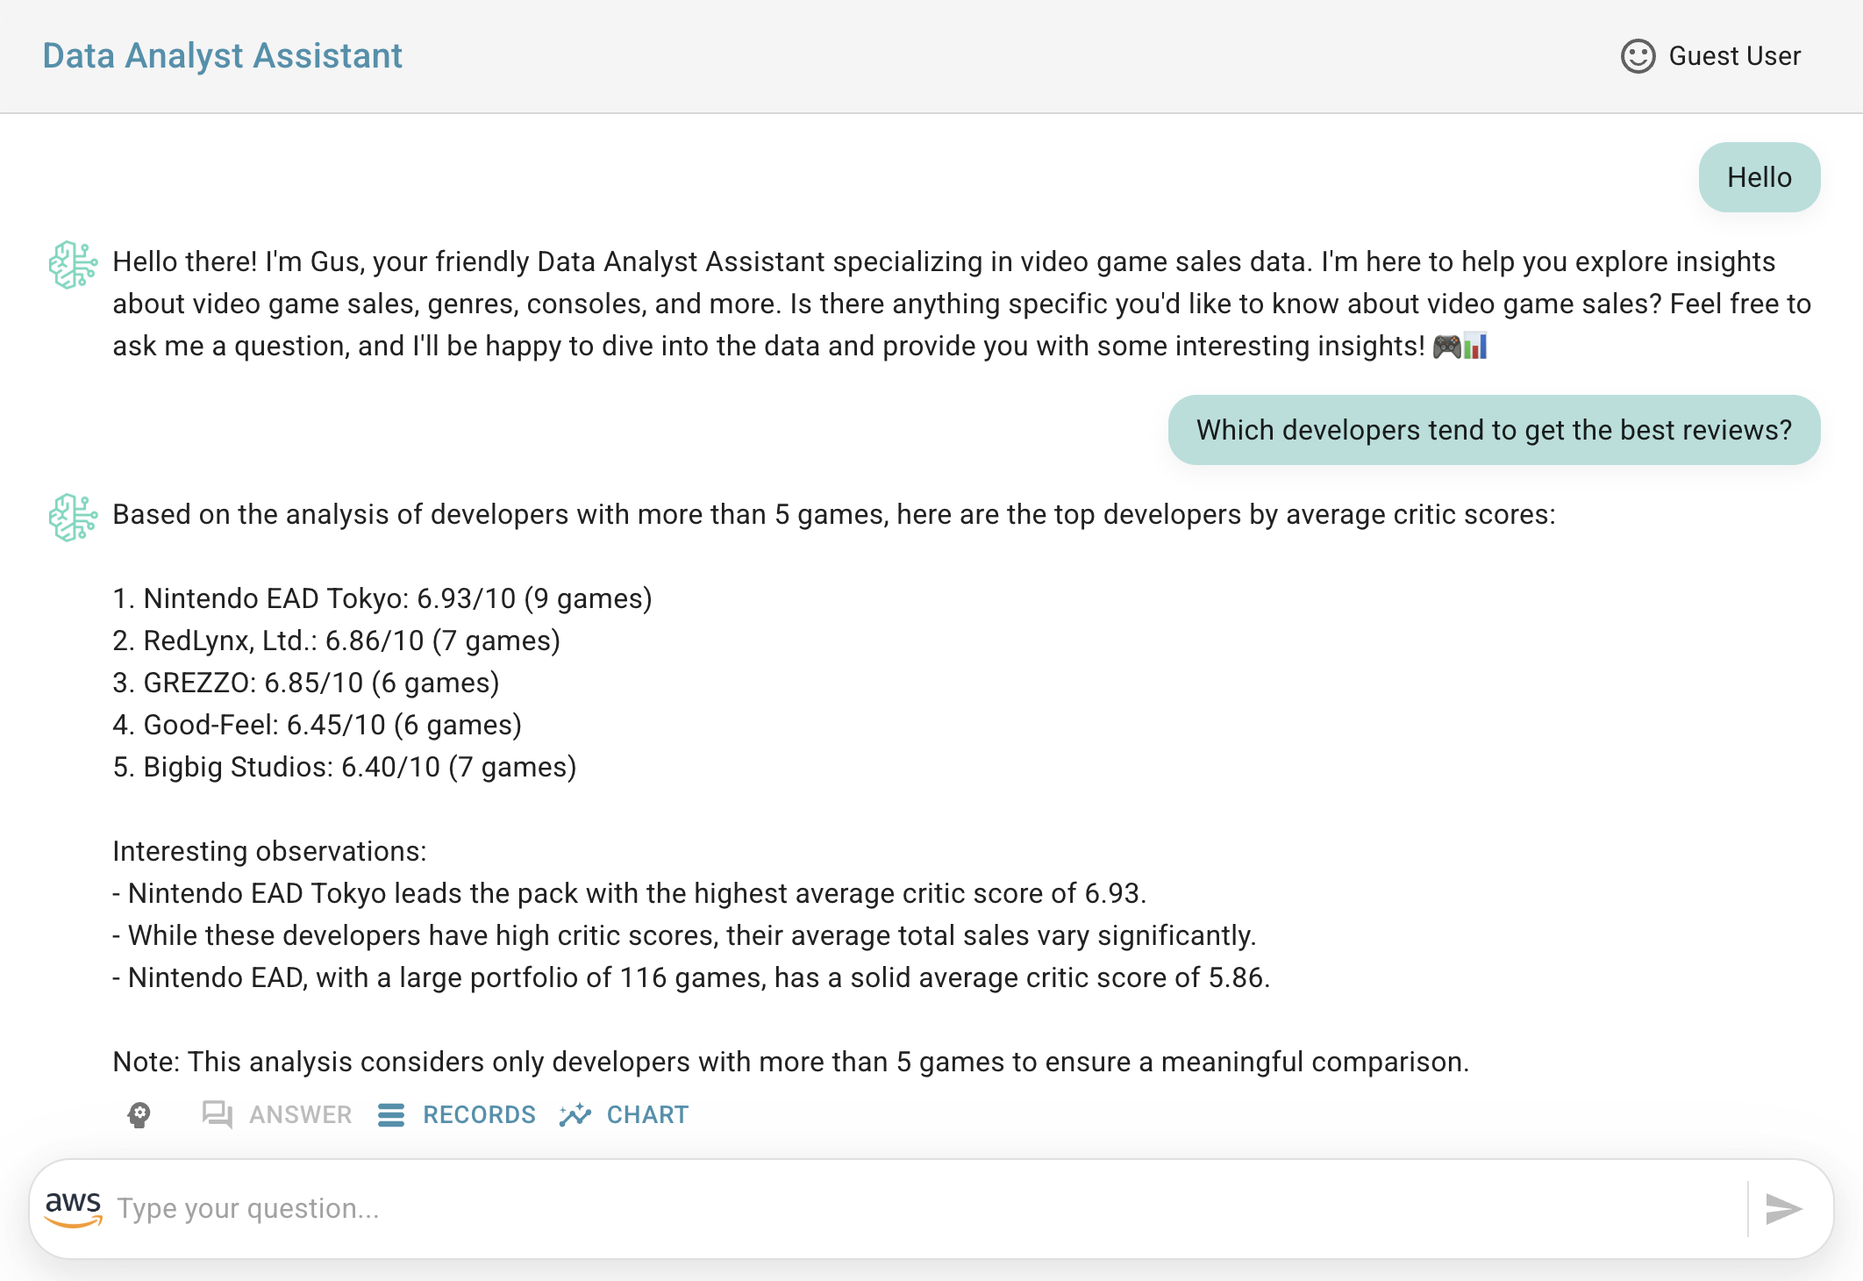
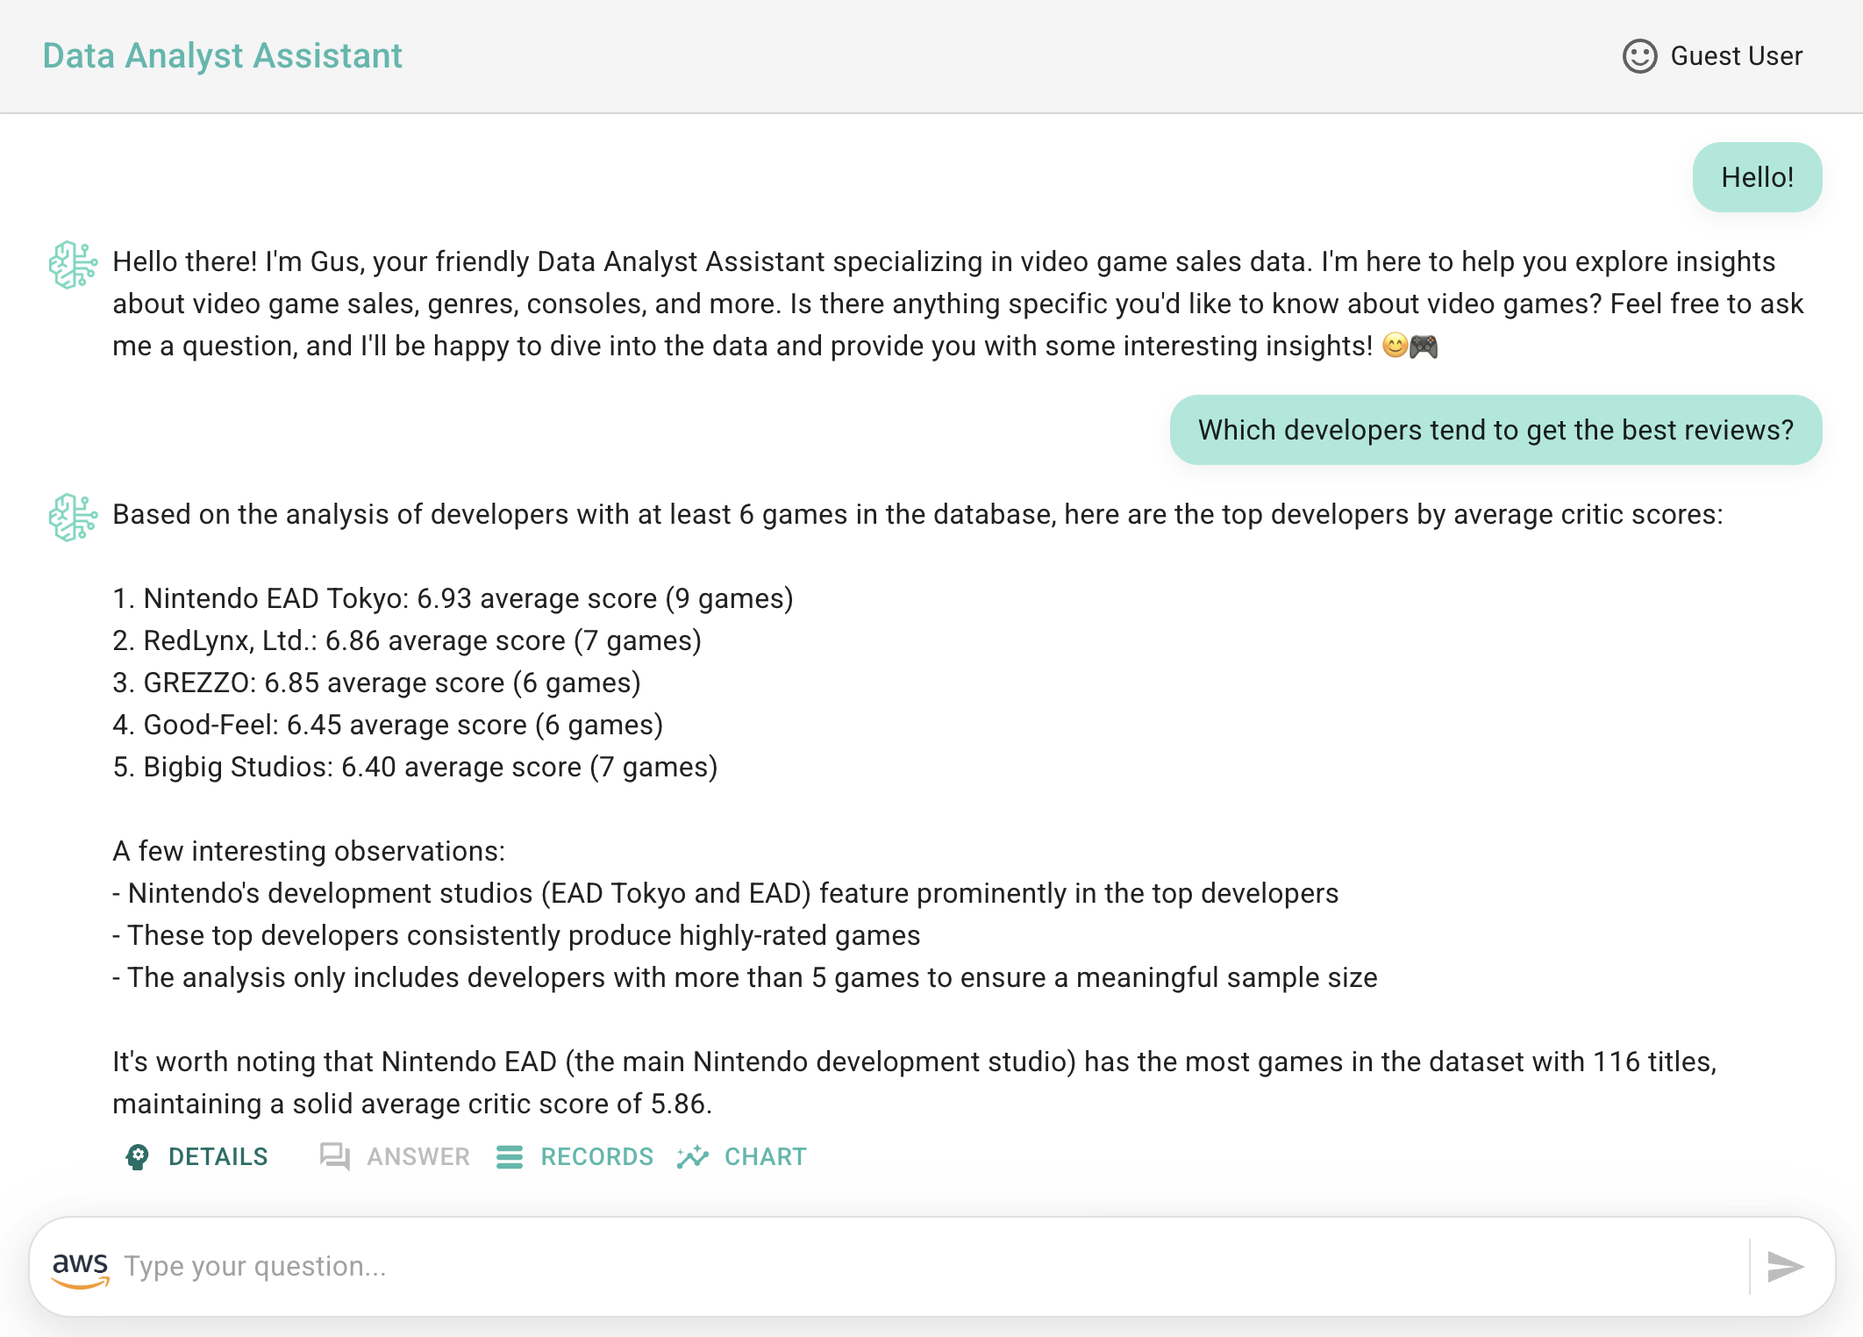
DAS - Answer details and readme updates

diff --git a/examples/agents_ux/video_games_sales_assistant_with_amazon_bedrock_agents/amplify-video-games-sales-assistant-sample/src/components/Chat.js b/examples/agents_ux/video_games_sales_assistant_with_amazon_bedrock_agents/amplify-video-games-sales-assistant-sample/src/components/Chat.js
@@ -14,11 +14,10 @@ import Grow from '@mui/material/Grow';
 import Stack from '@mui/material/Stack';
 import Fade from '@mui/material/Fade';
 import { v4 as uuidv4 } from 'uuid';
-import { BedrockAgentRuntimeClient, InvokeAgentCommand, BedrockAgentRuntimeClientConfigType } from "@aws-sdk/client-bedrock-agent-runtime";
+import { BedrockAgentRuntimeClient, InvokeAgentCommand } from "@aws-sdk/client-bedrock-agent-runtime";
 import { BedrockRuntimeClient, InvokeModelCommand } from "@aws-sdk/client-bedrock-runtime";
 import { DynamoDBClient } from "@aws-sdk/client-dynamodb";
 import { DynamoDBDocumentClient, QueryCommand } from "@aws-sdk/lib-dynamodb";
-import { fromCognitoIdentityPool } from "@aws-sdk/credential-providers";
 
 import InsightsOutlinedIcon from '@mui/icons-material/InsightsOutlined';
 import QuestionAnswerOutlinedIcon from '@mui/icons-material/QuestionAnswerOutlined';
@@ -488,12 +487,12 @@ const Chat = ({}) => {
 
                                     <Grid container spacing={2} sx={{ display: 'flex', alignItems: 'center' }}>
                                         <Grid>
-                                            <IconButton 
-                                                size="small"
+                                            <Button
+                                                color="secondary"
                                                 onClick={handleClickOpenAnswerDetails(index)}
-                                                >
-                                                    <PsychologyRoundedIcon fontSize="small" />
-                                            </IconButton>
+                                                startIcon={<PsychologyRoundedIcon />}>
+                                                Details
+                                            </Button>
                                         </Grid>
 
                                         { answer.queryResults.length>0 && (
@@ -551,7 +550,7 @@ const Chat = ({}) => {
                                 fontWeight: 500, 
                                 pt: 1, pb:1, pl:2, pr: 2, mb: 1, mt: 2, mr:1,
                                 boxShadow: 'rgba(0, 0, 0, 0.05) 0px 4px 12px',
-                                background: "#B2DFDB"
+                                background: "#A4E9DB"
                                 }}>
                                 <Typography variant="body1">
                                     { answer.query }
@@ -570,7 +569,7 @@ const Chat = ({}) => {
                         <Box sx={{ 
                             pt:1, pb:1, pl:2, pr: 2, m:0, borderRadius: 4, display: "flex",
                             boxShadow: 'rgba(0, 0, 0, 0.05) 0px 4px 12px',
-                            background: "#B2DFDB"
+                            background: "#A4E9DB"
                             }}
                         >
                             <Typography variant="body1">Answering your question...</Typography>
@@ -606,7 +605,7 @@ const Chat = ({}) => {
                 borderRadius: 6
             })}
             >
-            <Box sx={{ pt:1 }}>
+            <Box sx={{ pt:1.5, pl:0.5 }}>
                 <img src="/images/AWS_logo_RGB.png" alt="Amazon Web Services" height={20} />
             </Box>
             <InputBase

diff --git a/examples/agents_ux/video_games_sales_assistant_with_amazon_bedrock_agents/amplify-video-games-sales-assistant-sample/src/components/AnswerDetailsDialog.js b/examples/agents_ux/video_games_sales_assistant_with_amazon_bedrock_agents/amplify-video-games-sales-assistant-sample/src/components/AnswerDetailsDialog.js
@@ -55,7 +55,7 @@ function AnswerDetailsDialog(props) {
                     </Grid>
                     <Grid sm={12} md={6} lg={6} >
                         <Box sx={{ borderRadius: 4, pl:2, pr:2, pt:2,
-                            background: "#B2DFDB"
+                            background: "#A4E9DB"
                             }} >
                             <Box>
                                 {runningTraces.map((row,index) => (

diff --git a/examples/agents_ux/video_games_sales_assistant_with_amazon_bedrock_agents/amplify-video-games-sales-assistant-sample/src/components/LayoutApp.js b/examples/agents_ux/video_games_sales_assistant_with_amazon_bedrock_agents/amplify-video-games-sales-assistant-sample/src/components/LayoutApp.js
@@ -41,8 +41,11 @@ function LayoutApp() {
   const defaultTheme = createTheme({
     palette: {
       primary: {
-        main: "#4091AD"
+        main: "#44B8AC"
       },
+      secondary: {
+        main: "#006f66"
+      }
     }
   });
 

diff --git a/examples/agents_ux/video_games_sales_assistant_with_amazon_bedrock_agents/amplify-video-games-sales-assistant-sample/README.md b/examples/agents_ux/video_games_sales_assistant_with_amazon_bedrock_agents/amplify-video-games-sales-assistant-sample/README.md
@@ -13,18 +13,16 @@ By the end of this tutorial, you'll have a fully functional Generative AI web ap
 
 - An **Alias** created from your **Amazon Bedrock Agent** that you created in the first tutorial.
 - [Node.js > 18 version required](https://nodejs.org/en/download/package-manager)
+- React Scripts installed by executing the following command:
+``` bash
+npm install react-scripts
+```
 
 **Before proceeding further, verify that you have successfully installed and configured all the listed prerequisites in your development environment.**
 
-## Amplify Deployment
+## Prepare your Front-End Application
 
-Use the following instructions for deploying the React front-end application with Amplify.
-
-[Install the Amplify CLI](https://docs.amplify.aws/gen1/react/tools/cli/start/set-up-cli/) with the following command:
-
-``` bash
-npm install -g @aws-amplify/cli 
-```
+Set up dependencies, configure permissions, and prepare environment variables for your React application to interact with Amazon Bedrock and Amazon DynamoDB.
 
 ### Install React Application Dependencies
 
@@ -34,20 +32,9 @@ Command to install required npm packages for React.
 npm install
 ```
 
-### Initialize the Amplify Application using **Gen1**
-
-Run amplify init to set up the Amplify project.
-
-``` bash
-amplify init
-```
-
-- To initialize the project use the **suggested configuration**.
-- Select your authentication method.
-
 ### Create an IAM User Access Keys for your Front-end Application Permissions
 
-[Create an IAM user](https://docs.aws.amazon.com/IAM/latest/UserGuide/id_users_create.html) and [create Access key and Secret access key](https://docs.aws.amazon.com/keyspaces/latest/devguide/create.keypair.html) for programmatic access to your front-end application.
+**[Create an IAM user](https://docs.aws.amazon.com/IAM/latest/UserGuide/id_users_create.html) and [create Access key and Secret access key](https://docs.aws.amazon.com/keyspaces/latest/devguide/create.keypair.html) for programmatic access to your front-end application**, you will use these credentials in **env.js** file.
 
 In the **Permissions policies** section of you user, click **Add permissions** and then click **Create inline policy** to add the following inline policy using the **JSON Policy editor**, update the values with your **<agent_arn>**, **<agent_id>**, **<account_id>** and **<question_answers_table_arn>** that you can find in the outputs from the SAM tutorial.
 
@@ -95,7 +82,7 @@ In the **Permissions policies** section of you user, click **Add permissions** a
 
 Rename the file **src/sample.env.js** to **src/env.js** and update the values of the following variables.
 
-AWS credentials and AWS region used for your deployment:
+AWS credentials of the IAM user that you created previously and the AWS Region that you are using for the deployment:
 - **ACCESS_KEY_ID**
 - **SECRET_ACCESS_KEY**
 - **AWS_REGION**
@@ -111,27 +98,16 @@ Also, you can update the general application description:
 - **APP_SUBJECT**
 - **WELCOME_MESSAGE**
 
-### Add Hosting and Testing
-
-Run the following command to add hosting to your Amplify project:
-
-``` bash
-amplify add hosting
-```
-
-Use the following configuration:
-- Select the plugin module to execute · **Hosting with Amplify Console (Managed hosting with custom domains, Continuous deployment)**
-- Choose a type **Manual deployment**
-
-``` bash
-amplify publish
-```
-
-Copy the provided URL to access your application.
 
 ### Testing your Data Analyst Assistant Generative AI Application
 
-Sample questions to test the Data Analyst Assistant AI application:
+Now you can test your front-end application locally. Execute the following command:
+
+``` bash
+npm start
+```
+
+You can use the following sample questions to test the Data Analyst Assistant:
 
 - Hello
 - How can you help me?
@@ -145,6 +121,71 @@ Sample questions to test the Data Analyst Assistant AI application:
 - Which is the year with the highest number of games released?
 - Which are the most popular consoles and why?
 - Give me a short summary and conclusion.
+
+## Using Amplify for Hosting your Front-End Application
+
+Execute the following commands for hosting the React front-end application in Amplify.
+
+[Install the Amplify CLI](https://docs.amplify.aws/gen1/react/tools/cli/start/set-up-cli/) with the following command:
+
+``` bash
+npm install -g @aws-amplify/cli
+```
+
+### Initialize the Amplify Application using **Gen1**
+
+Set up the Amplify project by executing the following command:
+
+``` bash
+amplify init
+```
+
+- To initialize the project use the **suggested configuration**.
+- Select your authentication method.
+
+### Add Hosting and Testing
+
+Execute the following commands to add hosting to your Amplify project:
+
+
+``` bash
+amplify add hosting
+```
+
+Use the following configuration:
+- Select the plugin module to execute · **Hosting with Amplify Console (Managed hosting with custom domains, Continuous deployment)**
+- Choose a type **Manual deployment**
+
+``` bash
+amplify publish
+```
+
+After the publishing finishes, you can copy the provided **URL** to access your front-end application.
+
+## Front-End Application Preview Images
+
+Congratulations, now you have your Data Analyst Assistant where you can interact and have the following:
+
+- **Conversational interface with agent responding to user's questions.**
+
+![Video Games Sales Assistant](../images/preview1.png)
+
+- **Answer details including the rationale for generating the SQL query.**
+
+![Video Games Sales Assistant](../images/preview2.png)
+
+- **Raw query results displayed in tabular format from the SQL query.**
+
+![Video Games Sales Assistant](../images/preview3.png)
+
+- **Time-series chart visualization generated based on the provided data (charts created using [Apexcharts](https://apexcharts.com/))**.
+
+![Video Games Sales Assistant](../images/preview4.png)
+
+- **Summary and conclusion derived from the data analysis conversation.**
+
+![Video Games Sales Assistant](../images/preview5.png)
+
 
 ## Cleaning-up Resources (optional)
 

diff --git a/examples/agents_ux/video_games_sales_assistant_with_amazon_bedrock_agents/sam-bedrock-video-games-sales-assistant/README.md b/examples/agents_ux/video_games_sales_assistant_with_amazon_bedrock_agents/sam-bedrock-video-games-sales-assistant/README.md
@@ -18,15 +18,18 @@ By the end of this tutorial, you'll have the Amazon Bedrock Agent working in the
 
 **Before proceeding further, verify that you have successfully installed and configured all the listed prerequisites in your development environment.**
 
-## SAM Deployment
+## Database and Back-End Deployment with SAM
 
-Under this SAM project folder execute the following commands to deploy the backend services for the Assistant:
+To deploy the backend services for the Assistant, execute the following commands in your SAM project folder:
 
 ```bash
 sam build
 ```
 
-Note: By default, the Python version used for the Lambda Function is 3.9. If you receive a **Build Failed** error, change to the Python version (>3.9) that you have in **template.yaml** file in line **56**.
+> [!NOTE]
+> If you receive a **Build Failed error**, then you might need to change the Python version in the **template.yaml** file. By default, the Lambda Function uses Python 3.9. You can modify this setting on **line 56** of the **template.yaml** file to use a Python version that is higher than 3.9 that you have installed.
+
+Now execute the following command to perform a first SAM deployment:
 
 ```bash
 sam deploy --guided
@@ -46,12 +49,22 @@ Use the following value arguments for the deployment configuration:
 - SAM configuration file : **samconfig.toml**
 - SAM configuration environment : **default**
 
-After uploading the SAM project and changeset created:
+After the SAM project preparation and changeset created, confirm the following to start the deployment:
 
 - Deploy this changeset? [y/N]: **Y**
 
+After the SAM deployment finishes, you will have the following main services created:
+- The Lambda Function API that the agent will use.
+- The Aurora Serverless PostgreSQL Cluster Database.
+- A DynamoDB Table for tracking questions and query details.
+
 > [!TIP]
-> Alternatively, you can choose to follow [this manual](./manual_database_data_load_and_agent_creation.md) to continue creating the Amazon Bedrock Agent step-by-step in the AWS Console. Otherwise, continue with the instructions below.
+> Alternatively, you can choose to follow [this manual](./manual_database_data_load_and_agent_creation.md) to continue creating the Amazon Bedrock Agent step-by-step in the AWS Console. **Otherwise, continue with the instructions below**.
+
+
+## Preparing the Database and Creating the Amazon Bedrock Agent
+
+To create the agent with the provided scripts, run the following commands to prepare the environment variables that you will need:
 
 ``` bash
 # Set the stack name environment variable
@@ -80,9 +93,9 @@ EOF
 
 ```
 
-## Loading Data Sample to the PostgreSQL Databae
+### Loading Data Sample to the PostgreSQL Databae
 
-Execute the following command to create the database and load the data source.
+Execute the following command to create the database and load the data source:
 
 ``` bash
 pip install boto3
@@ -94,7 +107,7 @@ The script executed uses the **[video_games_sales_no_headers.csv](./resources/da
 > [!NOTE]
 > The data source provided contains information from [Video Game Sales](https://www.kaggle.com/datasets/asaniczka/video-game-sales-2024) which is made available under the [ODC Attribution License](https://opendatacommons.org/licenses/odbl/1-0/).
 
-## Amazon Bedrock Agent Creation
+### Amazon Bedrock Agent Creation
 
 Execute the following command to create the Amazon Bedrock Agent. This step will take about 30 seconds.
 
@@ -110,9 +123,9 @@ The Amazon Bedrock Agent was created and configured with the following informati
 > [!IMPORTANT] 
 > Enhance AI safety and compliance by implementing [Amazon Bedrock Guardrails](https://aws.amazon.com/bedrock/guardrails/) for your AI applications.
 
-## Testing the Agent
+### Testing the Agent in the AWS Console
 
-Now you can go back to your Amazon Bedrock Agen called **video-games-sales-assistant**, click on **Edit Agent Builder**, in the **Agent builder** section click on **Save**, **Prepare** and **Test**, use the **Test Agent** with the following sample questions:
+Now you can go back to your Amazon Bedrock Agent called **video-games-sales-assistant**, click on **Edit Agent Builder**, in the **Agent builder** section click on **Save**, **Prepare** and **Test**, use the **Test Agent** with the following sample questions:
 
 - Hello
 - How can you help me?
@@ -127,9 +140,11 @@ Now you can go back to your Amazon Bedrock Agen called **video-games-sales-assis
 - Which are the most popular consoles and why?
 - Give me a short summary and conclusion.
 
-## Create Alias Agent Application
+## Create Alias Agent for the Front-End Application
 
-To use the Agent application, once you have a **Prepared** version for testing, go to your **Agent overview** and click on **Create Alias** to use it from your front-end application.
+To use the agent in the front-end application, you need to **create an Alias of your agent**. After you have prepared a version for testing purposes, go to your **Agent Overview** and click on **Create Alias** so that you can use the alias point.
+
+You can now follow the tutorial "[Getting Started with Amplify Video Games Sales Assistant](../amplify-video-games-sales-assistant-sample/)" to deploy the front-end application. The tutorial will ask you for your your alias along with the other services that you have created so far.
 
 ## Cleaning-up Resources (optional)
 

diff --git a/examples/agents_ux/video_games_sales_assistant_with_amazon_bedrock_agents/README.md b/examples/agents_ux/video_games_sales_assistant_with_amazon_bedrock_agents/README.md
@@ -20,8 +20,8 @@ The assistant generates appropriate SQL queries to retrieve the requested data, 
 
 To deploy the application, please follow these two steps:
 
-1. [Getting Started with SAM Video Games Sales Assistant and Amazon Bedrock Agents](./sam-bedrock-video-games-sales-assistant/)
-2. [Getting Started with Amplify Video Games Sales Assistant](./amplify-video-games-sales-assistant-sample/)
+1. **Generative AI Application and Data Source**: [Getting Started with SAM Video Games Sales Assistant and Amazon Bedrock Agents](./sam-bedrock-video-games-sales-assistant/)
+2. **Front-End Application**: [Getting Started with Amplify Video Games Sales Assistant](./amplify-video-games-sales-assistant-sample/)
 
 > [!NOTE]
 > *It is recommended to use the Oregon (us-west-2) or N. Virginia (us-east-1) regions to deploy the application.*
@@ -37,23 +37,23 @@ To deploy the application, please follow these two steps:
 
 The following images are part of a conversation analysis that includes the natural language answer, the rationale used by the LLM to generate the SQL query, the records resulting from the SQL query used to answer the question, and chart generation.
 
-**Conversational interface with agent responding to user's questions.**
+- **Conversational interface with agent responding to user's questions.**
 
 ![Video Games Sales Assistant](./images/preview1.png)
 
-**Answer details including the rationale for generating the SQL query.**
+- **Answer details including the rationale for generating the SQL query.**
 
 ![Video Games Sales Assistant](./images/preview2.png)
 
-**Raw query results displayed in tabular format from the SQL query.**
+- **Raw query results displayed in tabular format from the SQL query.**
 
 ![Video Games Sales Assistant](./images/preview3.png)
 
-**Time-series chart visualization generated based on the provided data (charts created using [Apexcharts](https://apexcharts.com/))**.
+- **Time-series chart visualization generated based on the provided data (charts created using [Apexcharts](https://apexcharts.com/))**.
 
 ![Video Games Sales Assistant](./images/preview4.png)
 
-**Summary and conclusion derived from the data analysis conversation.**
+- **Summary and conclusion derived from the data analysis conversation.**
 
 ![Video Games Sales Assistant](./images/preview5.png)
 
